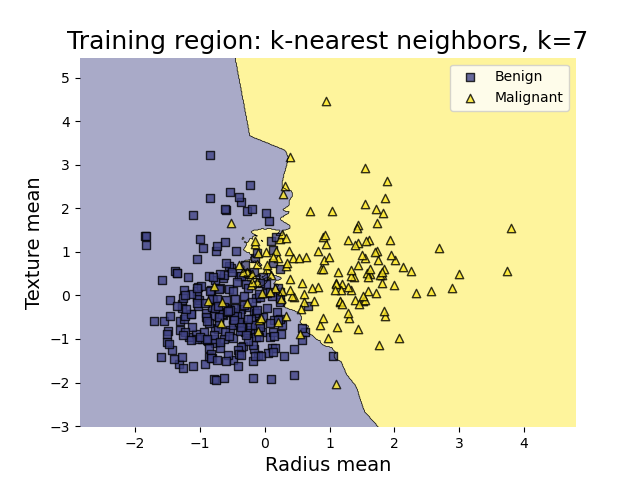
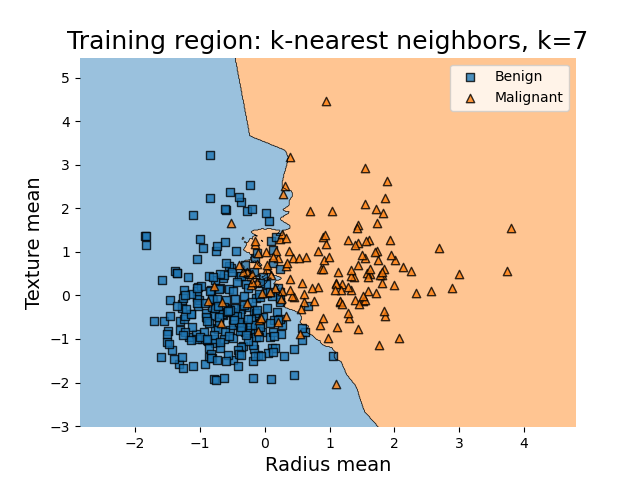
Back to orig colors

diff --git a/DSnonprog9_5withImagesColorChange.py b/DSnonprog9_5withImagesColorChange.py
@@ -6,11 +6,11 @@ from sklearn.neighbors import KNeighborsClassifier
 from sklearn.model_selection import train_test_split
 from sklearn.preprocessing import StandardScaler
 from sklearn.metrics import accuracy_score, precision_score, recall_score
-from mlxtend.plotting import plot_decision_regions
+# from mlxtend.plotting import plot_decision_regions
 # from streamlit_option_menu import option_menu
 
 # A selection of viridis colors generated @ https://hauselin.github.io/colorpalettejs/
-# mycolors = ('#414487,#fde725')
+mycolors = ('#414487,#fde725')
 # hides Streamlit footer and hamburger header 
 hide = """
         <style>
@@ -59,7 +59,7 @@ with col1:
         k = st.selectbox(
             "Select k",
             [3, 5, 7, 9, 11, 13, 15, 17, 19],
-         )
+        )
         # Fit the data and generate performance metrics
         knn = KNeighborsClassifier(n_neighbors=k) 
         knn.fit(X_train_scaled, np.ravel(y_train))
@@ -78,9 +78,9 @@ with col1:
         st.metric("Recall", round(recall, 4))
 
 with col2:
-# Set up plot
+        # Set up plot
         # fig, ax = plt.subplots()
-        # p = plot_decision_regions(X_train_scaled, np.ravel(y_train), clf=knn, legend=2)#, colors=mycolors) 
+        # p = plot_decision_regions(X_train_scaled, np.ravel(y_train), clf=knn, legend=2, colors=mycolors) 
         # p.set_title('Training region: k-nearest neighbors, k=%i' %k, fontsize = 18)
 ### Uncomment to generate the plots and save the images -- need an images folder ###
         # L = plt.legend()
@@ -88,7 +88,7 @@ with col2:
         # L.get_texts()[1].set_text('Malignant')
         # plt.xlabel('Radius mean', fontsize = 14)
         # plt.ylabel('Texture mean', fontsize = 14)
-# Uncomment line below to generate images for static graphs
+        # Uncomment line below to generate images for static graphs
         # plt.savefig("images/KNeigh" + str(k) + ".png")
         # st.pyplot(fig, ignore_streamlit_theme=True)
 ### Comment line above and Uncomment line below to use images for column 2 ###
